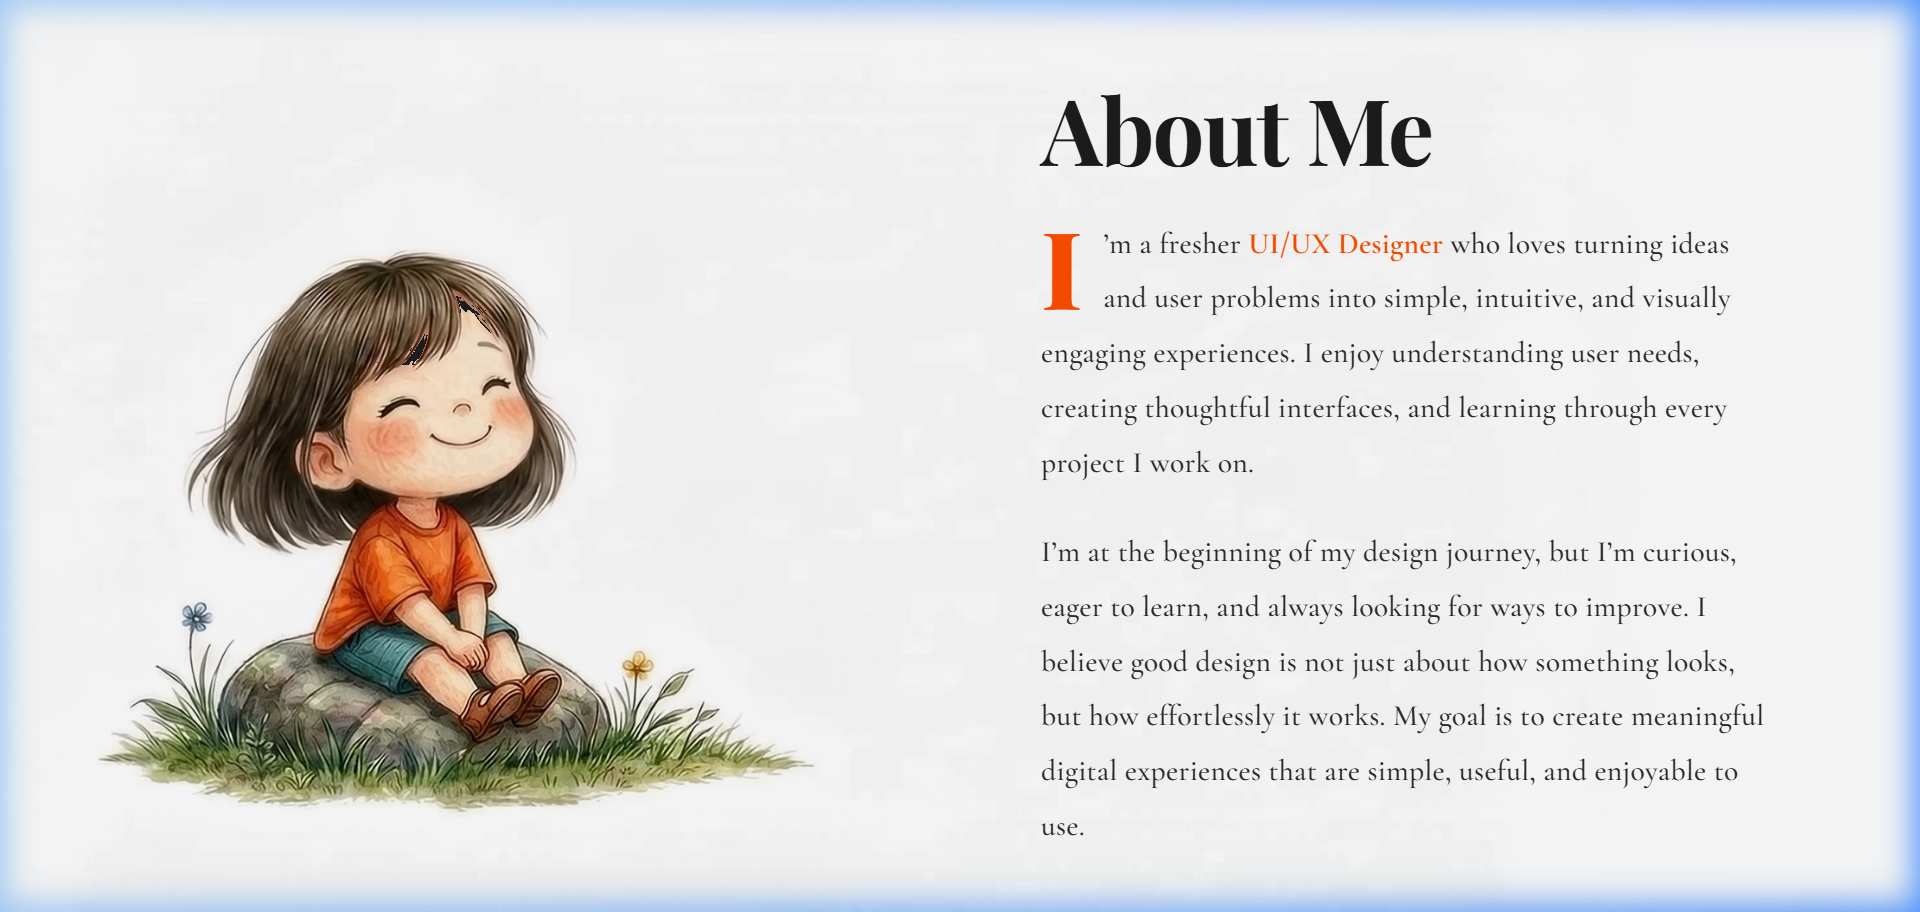
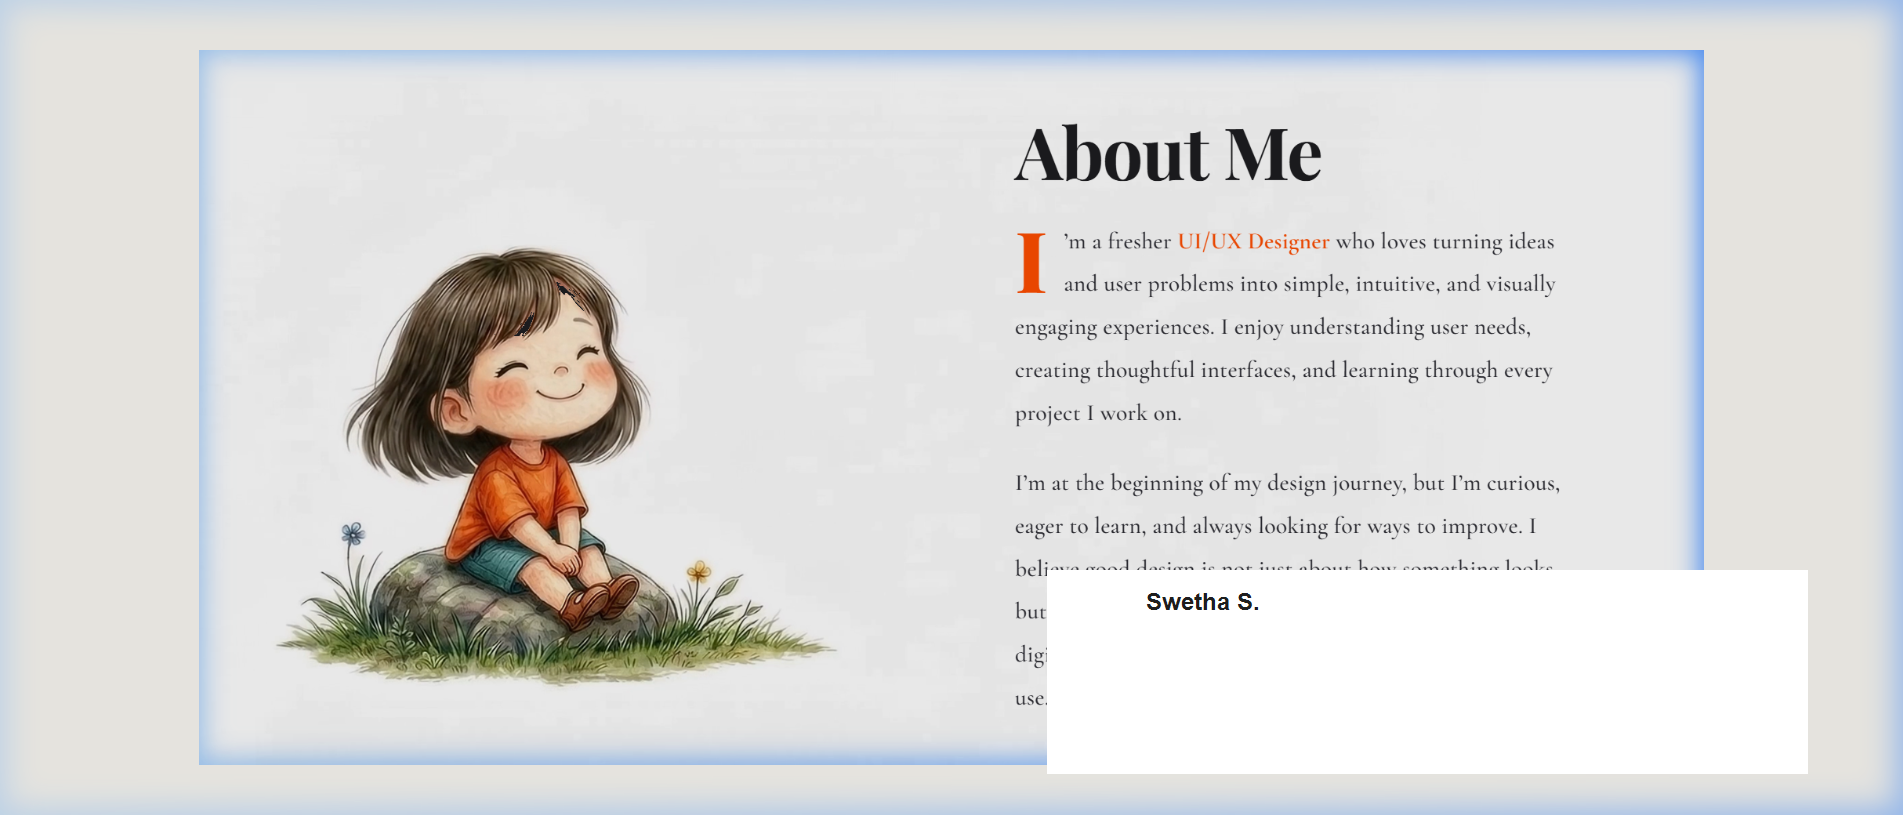
Replace hero section with new PORTFOLIO typography lockup artwork customized for Swetha S.

Changed region(s): [[0.062, 0.0613, 0.9301, 0.9509], [0.4961, 0.0, 1.0, 1.0], [0.5271, 0.4908, 0.6511, 0.5215]]

diff --git a/index.html b/index.html
@@ -26,7 +26,7 @@
         <!-- Chapter: PORTFOLIO Typography Hero Section -->
         <section class="story-chapter lockup-hero-section">
             <div class="lockup-hero-wrapper">
-                <img src="assets/images/portfolio_hero_lockup.png?v=20260919_v1" alt="PORTFOLIO Typography Hero" class="lockup-hero-img">
+                <img src="assets/images/portfolio_hero_lockup.png?v=20260919_v5" alt="PORTFOLIO Typography Hero" class="lockup-hero-img">
             </div>
         </section>
 

diff --git a/css/styles.css b/css/styles.css
@@ -206,7 +206,7 @@ body {
     display: flex;
     align-items: center;
     justify-content: center;
-    background-color: #F0EEE9 !important;
+    background-color: #FFFFFF !important;
     padding: 0;
     margin: 0;
     overflow: hidden;
